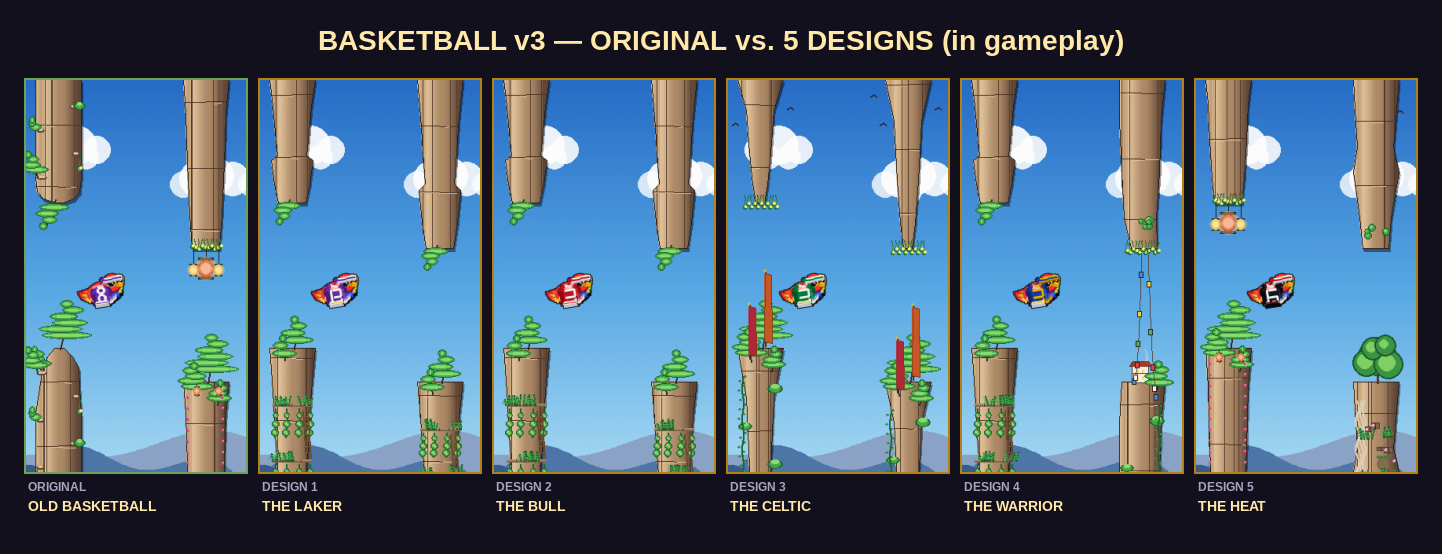
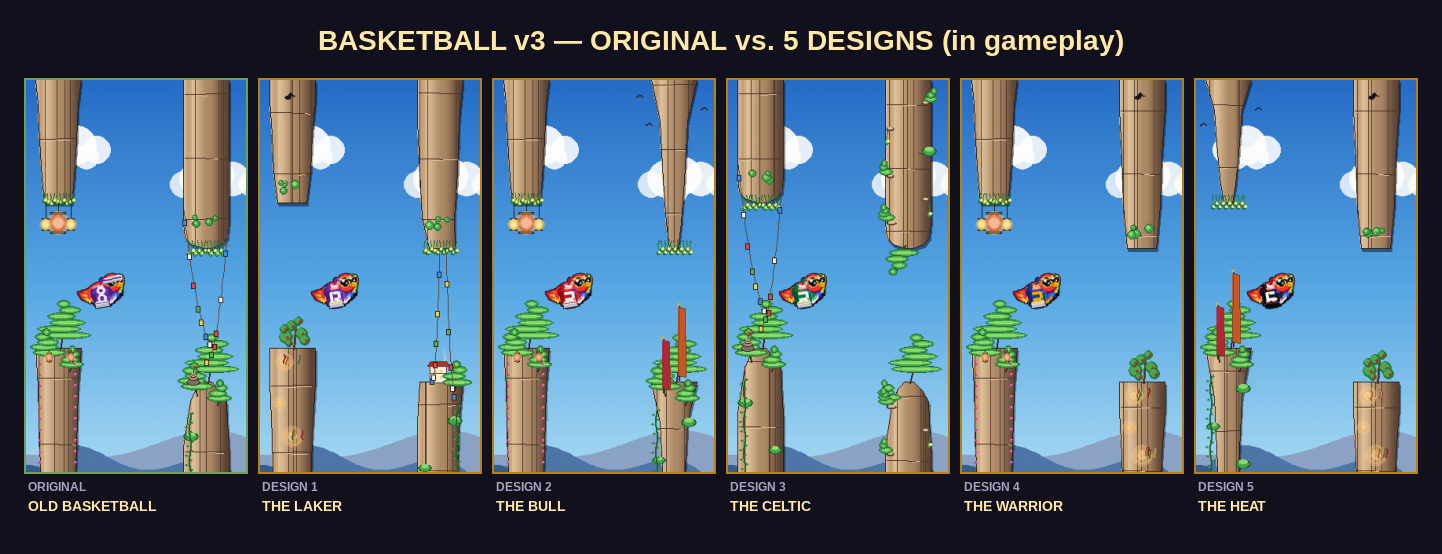
Basketball: face overlays jersey, bolder number across all 5 designs
Save parrot face region before drawing the jersey, restore it on top at the
end — head/beak always reads in front of the shirt. Bold 4-px digit strokes
(up from 3-px) and number shifted left of the face-restore zone so it stays
fully visible. No design files changed; improvement is in the shared module.

Claude-Session: https://claude.ai/code/session_01HafGQfRZVDiGkQqpJPr5Cm

diff --git a/tools/basketball_candidates/_shared.py b/tools/basketball_candidates/_shared.py
@@ -1,89 +1,94 @@
 """Shared draw logic for basketball v4 kit — polygon-over-parrot approach.
 
-The natural parrot plumage shows through the armhole areas; no body recolor.
-The jersey is drawn as a polygon panel on top of the base parrot sprite,
-matching real NBA tank anatomy: two narrow straps flanking a deep neckline gap,
-a deep U-shaped armhole scoop, and a full-width chest panel below the underarm.
+The natural parrot plumage shows through armhole areas; no body recolor.
+The jersey is drawn as a polygon panel on top of the base parrot sprite.
+The parrot's face is explicitly restored on top at the end so it always
+overlays the jersey — the right strap and chest-panel edge behind the head
+read naturally as hidden behind the bird's turned head.
 """
 import pygame
 
 
 def draw_basketball_kit(
     surf, BCX, BCY, HX, HY, CROWN_Y, poly_fn,
-    jersey, jersey_d, jersey_h,  # jersey fill / dark-edge / highlight
-    trim, trim_d,                 # trim accent (white or gold)
-    num_col, num_d, number,       # jersey number colour / shadow / digit
-    shoe, shoe_d, shoe_ac,        # shoe main / sole-shadow / accent stripe
-    band_accent=None,             # headband midline + knot colour; defaults to jersey
+    jersey, jersey_d, jersey_h,
+    trim, trim_d,
+    num_col, num_d, number,
+    shoe, shoe_d, shoe_ac,
+    band_accent=None,
 ):
     """Draw full basketball kit over the natural parrot sprite."""
     bm = band_accent if band_accent is not None else jersey
 
-    # --- CHEST PANEL (below the underarm line, full width) -------------------
-    # Runs from BCY-4 to BCY+14, covering the lower two-thirds of the body oval.
+    # --- Save the parrot face region BEFORE drawing anything ---------------
+    # HX=47 sits 15 px right of BCX=32, so the right strap and chest-panel
+    # edge overlap with the face. We restore the face at the very end so Pip's
+    # head always sits in front of the jersey, matching how a turned-head bird
+    # would naturally occlude the far shoulder of its own tank.
+    face_x = HX - 9                               # = 38
+    face_y = CROWN_Y - 1                          # = 30
+    face_w = min(surf.get_width() - face_x, 28)   # up to canvas right edge
+    face_h = HY + 12 - face_y                     # = 22 (crown → below beak)
+    face_rect = pygame.Rect(face_x, face_y, face_w, face_h)
+    face_backup = surf.subsurface(face_rect).copy()
+
+    # --- CHEST PANEL (below the underarm line, full width) -----------------
     poly_fn(surf, jersey, [
         (BCX-13, BCY-4),  (BCX+13, BCY-4),
         (BCX+12, BCY+14), (BCX-12, BCY+14),
     ])
-    # Dark left side panel — 3-D curvature on the off-side of the torso.
     poly_fn(surf, jersey_d, [
         (BCX-13, BCY-4),  (BCX-9,  BCY-4),
         (BCX-9,  BCY+14), (BCX-12, BCY+14),
     ])
-    # Highlight streak near the near (right) edge.
     pygame.draw.line(surf, jersey_h, (BCX+9, BCY-3), (BCX+9, BCY+12), 2)
 
-    # --- SHOULDER STRAPS (angled inward toward neckline) ---------------------
-    # Each strap is ~5 px wide; the 14 px neckline gap between their inner edges
-    # reads unmistakably as a deep U-neck, not a crew collar.
-    # Left strap — shifts slightly right as it rises to simulate angling over shoulder.
+    # --- SHOULDER STRAPS (angled inward toward neckline) -------------------
+    # Two narrow straps flanking a deep 14-px U-neck gap; deep armhole below.
     poly_fn(surf, jersey, [
         (BCX-12, BCY-4),  (BCX-7,  BCY-4),
         (BCX-5,  BCY-12), (BCX-10, BCY-12),
     ])
     pygame.draw.line(surf, jersey_d, (BCX-12, BCY-4), (BCX-10, BCY-12), 1)
-    # Right strap
     poly_fn(surf, jersey, [
         (BCX+7,  BCY-4),  (BCX+12, BCY-4),
         (BCX+10, BCY-12), (BCX+5,  BCY-12),
     ])
-    pygame.draw.line(surf, jersey_h, (BCX+11, BCY-4), (BCX+9, BCY-12), 1)
+    pygame.draw.line(surf, jersey_h, (BCX+11, BCY-4), (BCX+9,  BCY-12), 1)
 
-    # --- ARMHOLE SHADOW ARCS -------------------------------------------------
-    # Curved dark lines at the scoop edges make the armhole read as a cut-out
-    # (not just empty space) — the parrot's wing plumage shows through the gap.
+    # --- ARMHOLE SHADOW ARCS -----------------------------------------------
     pygame.draw.arc(surf, jersey_d, (BCX+3,  BCY-8, 12, 12), -0.9, 1.3, 2)
     pygame.draw.arc(surf, jersey_d, (BCX-15, BCY-8, 12, 12),  1.8, 4.0, 2)
 
-    # --- U-NECKLINE trim piping ----------------------------------------------
+    # --- U-NECKLINE trim ---------------------------------------------------
     pygame.draw.lines(surf, trim, False,
                       [(BCX-5, BCY-12), (BCX-1, BCY-9),
                        (BCX+3, BCY-9),  (BCX+6, BCY-12)], 2)
 
-    # --- JERSEY NUMBER -------------------------------------------------------
-    _draw_number(surf, BCX, BCY + 5, number, num_col, num_d)
+    # --- JERSEY NUMBER (shifted left so the face blit doesn't occlude it) --
+    # Number lives in the LEFT portion of the chest panel (x ≈ 24–36) which is
+    # safely left of the face-restore region (x ≥ 38). Bold 4-px strokes.
+    _draw_number(surf, BCX - 2, BCY + 7, number, num_col, num_d)
 
-    # --- HEM PIPING ----------------------------------------------------------
+    # --- HEM PIPING --------------------------------------------------------
     pygame.draw.line(surf, trim, (BCX-11, BCY+13), (BCX+11, BCY+13), 1)
 
-    # --- WRISTBAND on near wing (forearm sweatband) --------------------------
+    # --- WRISTBAND on near wing -------------------------------------------
     wrx, wry = BCX + 12, BCY + 8
     pygame.draw.line(surf, trim_d, (wrx-3, wry+4), (wrx+5, wry-2), 6)
     pygame.draw.line(surf, trim,   (wrx-3, wry+4), (wrx+5, wry-2), 4)
     pygame.draw.line(surf, jersey, (wrx-2, wry+3), (wrx+4, wry-2), 1)
 
-    # --- BROW HEADBAND -------------------------------------------------------
-    # Thick trim-coloured band hugging the crown; jersey-coloured midline + knot
-    # is the "tied-on" tell that reads as worn kit.
+    # --- BROW HEADBAND -----------------------------------------------------
     by = CROWN_Y + 5
     pygame.draw.line(surf, trim_d, (HX-12, by+1), (HX+13, by),   7)
     pygame.draw.line(surf, trim,   (HX-12, by),   (HX+13, by-1), 5)
-    pygame.draw.line(surf, bm,     (HX-11, by),   (HX+12, by-1), 2)   # midline
-    pygame.draw.line(surf, trim,   (HX-10, by-2), (HX+5,  by-2), 1)   # glint
-    pygame.draw.circle(surf, bm, (HX-12, by), 3)                        # knot
-    pygame.draw.line(surf, jersey_d, (HX-13, by+2), (HX-16, by+5), 2)  # tail
+    pygame.draw.line(surf, bm,     (HX-11, by),   (HX+12, by-1), 2)
+    pygame.draw.line(surf, trim,   (HX-10, by-2), (HX+5,  by-2), 1)
+    pygame.draw.circle(surf, bm, (HX-12, by), 3)
+    pygame.draw.line(surf, jersey_d, (HX-13, by+2), (HX-16, by+5), 2)
 
-    # --- HIGH-TOP SHOES ------------------------------------------------------
+    # --- HIGH-TOP SHOES ---------------------------------------------------
     for fx in (26, 34):
         pygame.draw.rect(surf, shoe_d, (fx-4, HY+22, 9, 6), border_radius=2)
         pygame.draw.rect(surf, shoe,   (fx-4, HY+21, 9, 4), border_radius=2)
@@ -91,22 +96,25 @@ def draw_basketball_kit(
         pygame.draw.line(surf, shoe_d,  (fx-4, HY+27), (fx+5, HY+27), 2)
         pygame.draw.line(surf, trim,    (fx-3, HY+21), (fx+1, HY+21), 1)
 
+    # --- RESTORE PARROT FACE on top of all jersey elements -----------------
+    # This ensures the head/beak always reads in front of the shirt, which is
+    # the correct layering for a bird whose head is turned over its shoulder.
+    surf.blit(face_backup, face_rect.topleft)
 
-def _draw_number(surf, BCX, BCY, number, col, shadow):
-    """Render a 1- or 2-digit block number centred on (BCX, BCY)."""
+
+def _draw_number(surf, cx, cy, number, col, shadow):
+    """Render a single bold digit centred at (cx, cy)."""
     digits = number.strip()
-    if len(digits) == 1:
-        _draw_digit(surf, BCX, BCY, digits[0], col, shadow, scale=1.2)
-    elif len(digits) == 2:
-        _draw_digit(surf, BCX-5, BCY, digits[0], col, shadow, scale=1.0)
-        _draw_digit(surf, BCX+5, BCY, digits[1], col, shadow, scale=1.0)
+    # Always render as single digit for maximum legibility at 40px
+    d = digits[0] if digits else '0'
+    _draw_digit(surf, cx, cy, d, col, shadow, scale=1.1)
 
 
 def _draw_digit(surf, cx, cy, d, col, shad, scale=1.0):
-    """Draw a single block digit centred at (cx, cy) using line segments."""
+    """Draw a bold block digit centred at (cx, cy)."""
     w = int(5 * scale)
     h = int(8 * scale)
-    t = max(2, int(3 * scale))
+    t = max(3, int(4 * scale))   # bold: 4-px strokes at scale 1.0
 
     def seg(x0, y0, x1, y1):
         pygame.draw.line(surf, shad, (cx+x0+1, cy+y0+1), (cx+x1+1, cy+y1+1), t)
